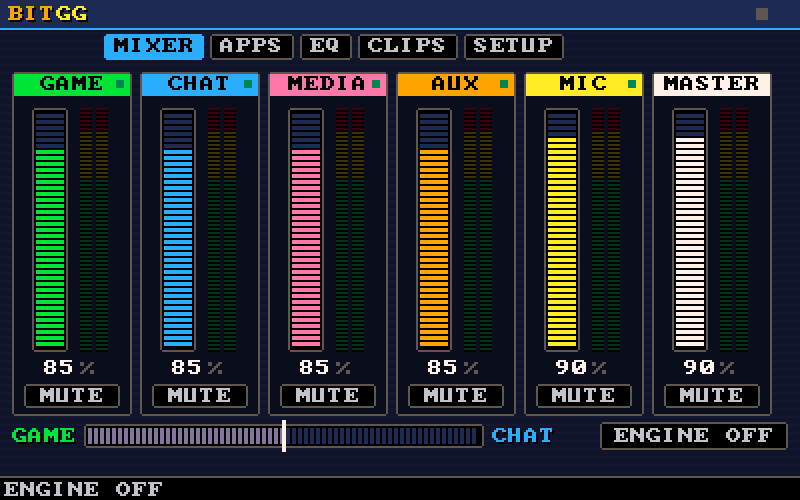
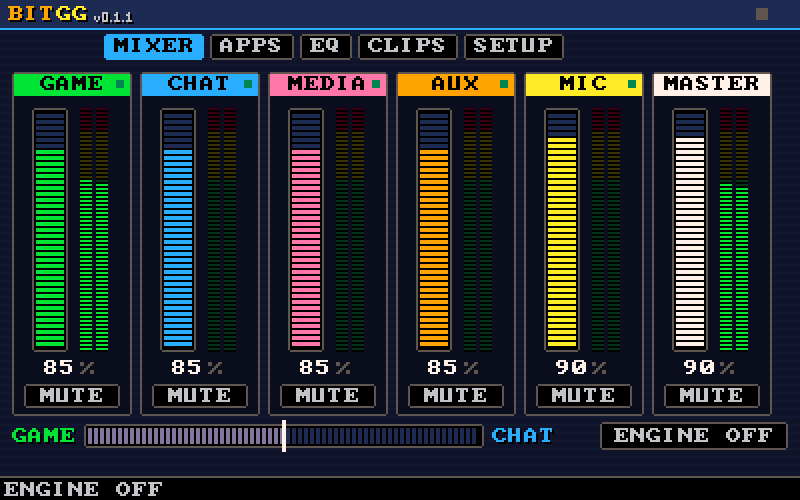
Show the app version; bump to 0.1.1; tag must match Cargo.toml
- Tiny 3x5 pixel font (tgui::text_tiny) and a "v0.1.1" label right after
  the GG logo; the window title also shows the version. Both come from
  Cargo.toml (CARGO_PKG_VERSION), so there is one place to bump.
- Version 0.1.0 -> 0.1.1 (mixer routing, doubled-audio fix, screenshots).
- release.yml refuses a tag that doesn't equal "v" + Cargo.toml version,
  so the exe never shows a different number than its release.
- README (EN/TH): release steps now start with bumping Cargo.toml;
  screenshots regenerated with the version label.

Changed region(s): [[0.0938, 0.36, 0.1562, 0.72], [0.875, 0.36, 0.9375, 0.72], [0.125, 0.03, 0.1875, 0.06]]

diff --git a/src/tgui.rs b/src/tgui.rs
@@ -167,6 +167,43 @@ impl Ui {
         cx - x
     }
 
+    /// Tiny 3x5 pixel text for version numbers: digits, '.', 'v', '-'.
+    /// Returns width in pixels.
+    pub fn text_tiny(&mut self, x: i32, y: i32, s: &str, c: u32) -> i32 {
+        // each row: 3 bits, bit 2 = leftmost pixel
+        fn glyph(ch: char) -> Option<(i32, [u8; 5])> {
+            Some(match ch {
+                '0' => (3, [0b111, 0b101, 0b101, 0b101, 0b111]),
+                '1' => (3, [0b010, 0b110, 0b010, 0b010, 0b111]),
+                '2' => (3, [0b111, 0b001, 0b111, 0b100, 0b111]),
+                '3' => (3, [0b111, 0b001, 0b111, 0b001, 0b111]),
+                '4' => (3, [0b101, 0b101, 0b111, 0b001, 0b001]),
+                '5' => (3, [0b111, 0b100, 0b111, 0b001, 0b111]),
+                '6' => (3, [0b111, 0b100, 0b111, 0b101, 0b111]),
+                '7' => (3, [0b111, 0b001, 0b001, 0b010, 0b010]),
+                '8' => (3, [0b111, 0b101, 0b111, 0b101, 0b111]),
+                '9' => (3, [0b111, 0b101, 0b111, 0b001, 0b111]),
+                'v' | 'V' => (3, [0b000, 0b000, 0b101, 0b101, 0b010]),
+                '-' => (3, [0b000, 0b000, 0b111, 0b000, 0b000]),
+                '.' => (1, [0b000, 0b000, 0b000, 0b000, 0b100]),
+                _ => return None,
+            })
+        }
+        let mut cx = x;
+        for ch in s.chars() {
+            let Some((w, rows)) = glyph(ch) else { continue };
+            for (ry, bits) in rows.iter().enumerate() {
+                for col in 0..w {
+                    if bits & (0b100 >> col) != 0 {
+                        self.put(cx + col, y + ry as i32, c);
+                    }
+                }
+            }
+            cx += w + 1;
+        }
+        cx - x
+    }
+
     /// Text with a 1px drop shadow — the classic arcade look.
     pub fn text_s(&mut self, x: i32, y: i32, s: &str, c: u32) -> i32 {
         self.text(x + 1, y + 1, s, BLACK);

diff --git a/src/main.rs b/src/main.rs
@@ -736,6 +736,10 @@ impl App {
         // tiny pixel logo
         ui.text_s(4, 3, "BIT", ORANGE);
         ui.text_s(28, 3, "GG", YELLOW);
+        // version from Cargo.toml, tiny, bottom-aligned with the logo
+        const VERSION: &str = concat!("v", env!("CARGO_PKG_VERSION"));
+        ui.text_tiny(48, 7, VERSION, BLACK); // shadow
+        ui.text_tiny(47, 6, VERSION, LGREY);
         let rec_on = self.rec.as_ref().map(|r| r.alive()).unwrap_or(false);
         if rec_on {
             let blink = (ui.frame / 10) % 2 == 0;
@@ -1531,7 +1535,7 @@ impl ApplicationHandler<UserEv> for App {
         }
         let s = if self.cfg.scale == 0 { 2 } else { self.cfg.scale };
         let attrs = Window::default_attributes()
-            .with_title("BitGG")
+            .with_title(concat!("BitGG v", env!("CARGO_PKG_VERSION")))
             .with_inner_size(LogicalSize::new((W as u32 * s) as f64, (H as u32 * s) as f64))
             .with_min_inner_size(LogicalSize::new(W as f64, H as f64))
             // main thread is MTA for Core Audio; OLE drag&drop would need STA

diff --git a/README.th.md b/README.th.md
@@ -102,12 +102,16 @@ git switch -c fix-mic-gain        # ทำงาน, commit
 git push -u origin fix-mic-gain   # เปิด PR: fix-mic-gain -> master
 ```
 
-พอ `master` พร้อมออกเวอร์ชัน ให้เปิด PR **`master` → `main`** แล้ว merge จากนั้น tag บน `main`:
+พอ `master` พร้อมออกเวอร์ชัน:
+
+1. **เพิ่มเลขเวอร์ชัน** ใน `Cargo.toml` (ทำบน branch แล้ว PR เข้า `master`) เลขนี้คือเลขที่แสดงข้างโลโก้และบนแถบชื่อหน้าต่าง แก้บั๊กใช้ `0.1.0 → 0.1.1` เพิ่มฟีเจอร์ใหม่ใช้ `0.1.x → 0.2.0`
+2. เปิด PR **`master` → `main`** แล้ว merge
+3. tag บน `main` ด้วยเลข**เดียวกัน** (ถ้า tag ไม่ตรงกับ `Cargo.toml` workflow จะไม่ยอมออก release)
 
 ```sh
 git switch main && git pull
-git tag v0.2.0
-git push origin v0.2.0
+git tag v0.1.1
+git push origin v0.1.1
 ```
 
 GitHub Actions จะ build, รันเทสต์ (รวมเทสต์กัน anti-cheat), เซ็นชื่อ (ถ้าตั้งค่าไว้) และออก release พร้อม `BitGG.exe`, `SHA256SUMS.txt` และ provenance attestation ให้เอง นอกจากนี้ CI จะ build และรันเทสต์ให้ทุก push และทุก PR

diff --git a/README.md b/README.md
@@ -102,12 +102,16 @@ git switch -c fix-mic-gain        # work, commit
 git push -u origin fix-mic-gain   # open a PR: fix-mic-gain -> master
 ```
 
-When `master` is ready to ship, open a PR **`master` → `main`**, merge it, then tag on `main`:
+When `master` is ready to ship:
+
+1. **Bump the version** in `Cargo.toml` (on a branch, PR into `master`). It's the version shown next to the logo and in the title bar. Use `0.1.0 → 0.1.1` for fixes, `0.1.x → 0.2.0` for new features.
+2. Open a PR **`master` → `main`** and merge it.
+3. Tag on `main` with the **same** version (the release workflow refuses a tag that doesn't match `Cargo.toml`):
 
 ```sh
 git switch main && git pull
-git tag v0.2.0
-git push origin v0.2.0
+git tag v0.1.1
+git push origin v0.1.1
 ```
 
 GitHub Actions then builds, tests (including the anti-cheat guard), signs (if configured), and publishes the release with `BitGG.exe`, `SHA256SUMS.txt` and a provenance attestation. CI also builds and tests every push and PR.
